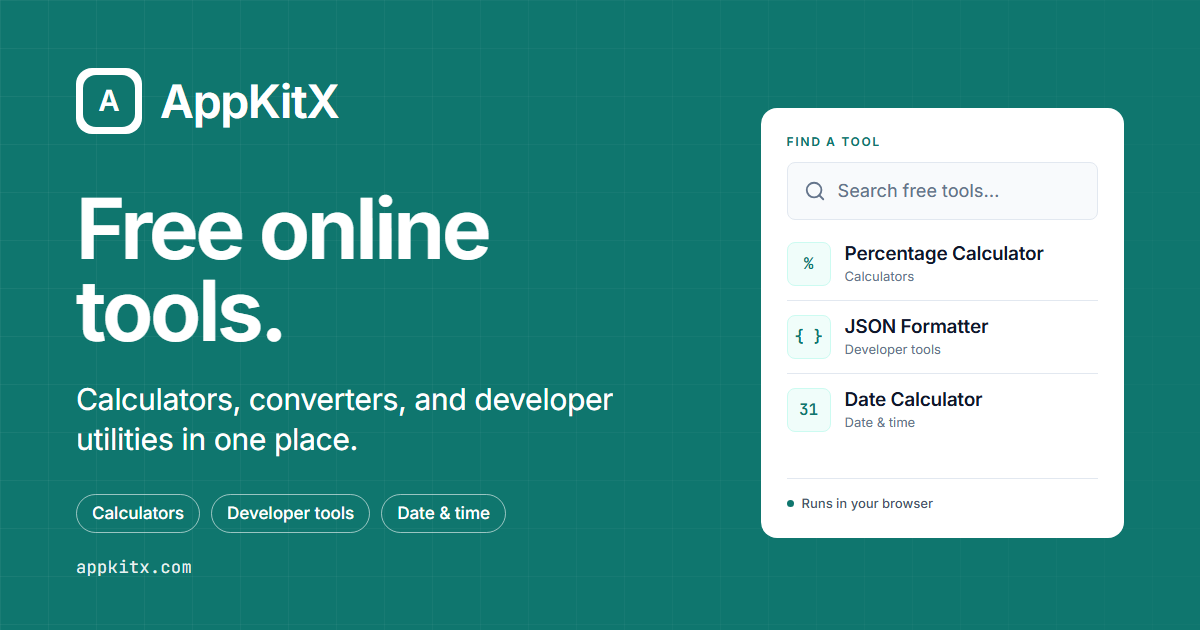
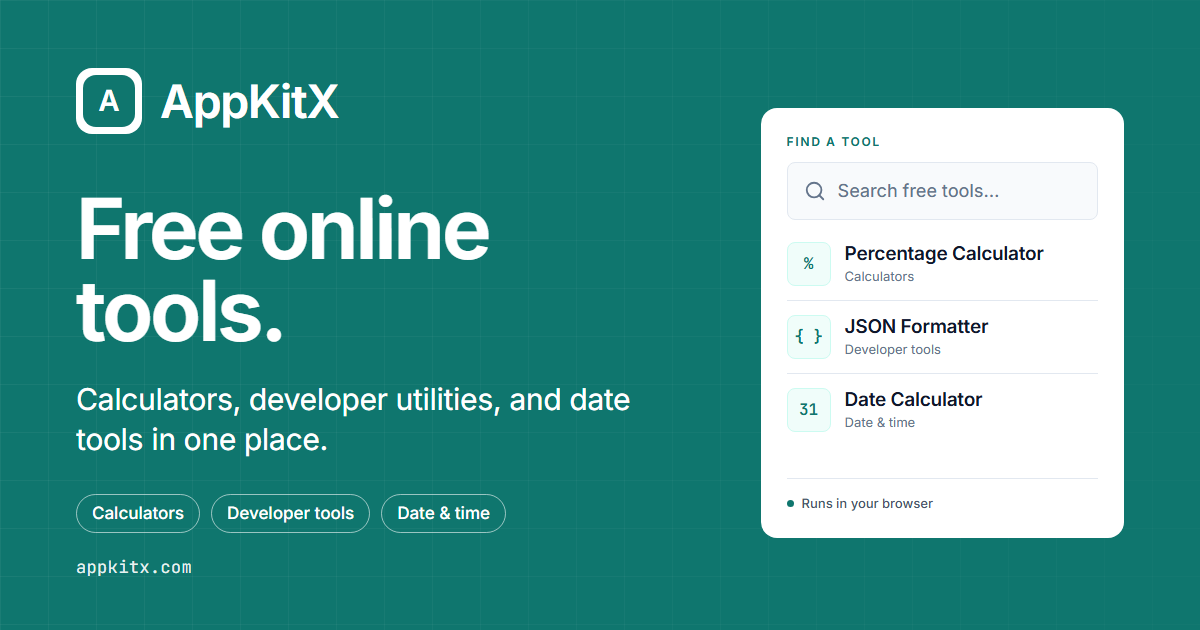
correct homepage and category copy claims

Changed region(s): [[0.0617, 0.6032, 0.5242, 0.7238]]

diff --git a/src/i18n/dictionaries/es.ts b/src/i18n/dictionaries/es.ts
@@ -21,9 +21,9 @@ export const es: Dictionary = {
   layout: {
     defaultTitle: "AppKitX — Herramientas online gratuitas",
     defaultDescription:
-      "Calculadoras, conversores y utilidades para desarrolladores, gratis y en un solo lugar.",
+      "Calculadoras, utilidades para desarrolladores y herramientas de fecha y hora, gratis y en un solo lugar.",
     socialImageAlt:
-      "AppKitX — herramientas online gratuitas para cálculos, conversiones y desarrollo.",
+      "AppKitX — herramientas online gratuitas: calculadoras, utilidades para desarrolladores y herramientas de fecha y hora.",
     skipToContent: "Saltar al contenido",
   },
   nav: {
@@ -85,7 +85,7 @@ export const es: Dictionary = {
   home: {
     heroTitle: "Herramientas gratis para el día a día.",
     heroSubline:
-      "Calculadoras, conversores y utilidades para desarrolladores, todo en un solo lugar.",
+      "Calculadoras, utilidades para desarrolladores y herramientas de fecha y hora, todo en un solo lugar.",
     browseByCategory: "Explorar por categoría",
     exploreHeading: "Explora el conjunto de herramientas.",
     placeholderTools: {
@@ -108,8 +108,8 @@ export const es: Dictionary = {
           "Calculadoras gratis de porcentajes y descuentos: calcula el X % de un número, la variación porcentual o el precio final tras un descuento.",
         toolsHeading: "Calculadoras online gratis",
         intro: [
-          "Dos calculadoras cubren las cuentas de porcentajes del día a día: calcula el X % de un número, averigua qué porcentaje representa un valor de otro, mide aumentos y disminuciones porcentuales y comprueba cuánto ahorras con un descuento y el precio final.",
-          "Ambas funcionan por completo en tu navegador, muestran la fórmula de cada resultado y permiten copiarlo con un clic. Los importes se tratan tal como los escribes: la calculadora de descuentos es neutral respecto a la moneda y los resultados solo se redondean para mostrarlos.",
+          "Las calculadoras cubren las cuentas de porcentajes del día a día: calcula el X % de un número, averigua qué porcentaje representa un valor de otro, mide aumentos y disminuciones porcentuales y comprueba cuánto ahorras con un descuento y el precio final.",
+          "Funcionan por completo en tu navegador, muestran la fórmula de cada resultado y permiten copiarlo con un clic. Los importes se tratan tal como los escribes: la calculadora de descuentos es neutral respecto a la moneda y los resultados solo se redondean para mostrarlos.",
         ],
       },
     },
@@ -122,8 +122,8 @@ export const es: Dictionary = {
           "Herramientas de desarrollo gratis en tu navegador: codifica y descodifica Base64 y formatea, minimiza o valida JSON. Nada de lo que pegas se sube.",
         toolsHeading: "Herramientas de desarrollo gratis",
         intro: [
-          "Dos utilidades en el navegador para el trabajo diario de desarrollo: convierte texto a Base64 y viceversa, y formatea, minimiza o valida JSON.",
-          "Ambas se ejecutan por completo en tu navegador: nada de lo que pegas se sube a ningún sitio. Cada herramienta documenta su comportamiento y sus casos límite, y todos los resultados se pueden copiar con un clic.",
+          "Utilidades en el navegador para el trabajo diario de desarrollo: convierte texto a Base64 y viceversa, y formatea, minimiza o valida JSON.",
+          "Se ejecutan por completo en tu navegador: nada de lo que pegas se sube a ningún sitio. Cada herramienta documenta su comportamiento y sus casos límite, y todos los resultados se pueden copiar con un clic.",
         ],
       },
     },
@@ -135,8 +135,8 @@ export const es: Dictionary = {
           "Calculadoras de fechas y de edad gratis: cuenta los días entre dos fechas, suma o resta días, semanas, meses y años y calcula la edad en años, meses y días.",
         toolsHeading: "Herramientas de fecha y hora gratis",
         intro: [
-          "Dos herramientas en el navegador para cuentas con el calendario: cuenta los días entre dos fechas con un desglose en años, meses y días, o suma y resta días, semanas, meses y años con ajuste de fin de mes.",
-          "La calculadora de edad convierte una fecha de nacimiento en años, meses y días, además de los días vividos totales, contados a fecha del calendario local de tu dispositivo. Ambas trabajan con fechas de calendario simples: sin zonas horarias, sin subir nada y con todos los resultados copiables con un clic.",
+          "Herramientas en el navegador para cuentas con el calendario: cuenta los días entre dos fechas con un desglose en años, meses y días, o suma y resta días, semanas, meses y años con ajuste de fin de mes.",
+          "La calculadora de edad convierte una fecha de nacimiento en años, meses y días, además de los días vividos totales, contados a fecha del calendario local de tu dispositivo. Las herramientas trabajan con fechas de calendario simples: sin zonas horarias, sin subir nada y con todos los resultados copiables con un clic.",
         ],
       },
     },

diff --git a/src/i18n/dictionaries/en.ts b/src/i18n/dictionaries/en.ts
@@ -9,9 +9,9 @@ export const en: Dictionary = {
   layout: {
     defaultTitle: "AppKitX — Free Online Tools",
     defaultDescription:
-      "Free calculators, converters, and developer utilities, all in one place.",
+      "Free calculators, developer utilities, and date and time tools, all in one place.",
     socialImageAlt:
-      "AppKitX — free online tools for calculations, conversions, and development.",
+      "AppKitX — free online tools for calculators, developer utilities, and date and time tools.",
     skipToContent: "Skip to content",
   },
   nav: {
@@ -73,7 +73,7 @@ export const en: Dictionary = {
   home: {
     heroTitle: "Free tools for everyday work.",
     heroSubline:
-      "Calculators, converters, and developer utilities — all in one place.",
+      "Calculators, developer utilities, and date and time tools — all in one place.",
     browseByCategory: "Browse by category",
     exploreHeading: "Explore the toolkit.",
     placeholderTools: {
@@ -96,8 +96,8 @@ export const en: Dictionary = {
           "Free calculators for percentages and discounts: find a percentage of a number, work out percent change, or see the final price after a discount.",
         toolsHeading: "Free online calculators",
         intro: [
-          "Two calculators cover the everyday percentage math: find X% of a number, work out what percent one value is of another, measure a percentage increase or decrease, and see what a discount saves and its final price.",
-          "Both run entirely in your browser, show the formula behind each result, and let you copy it with one click. Amounts are treated exactly as you enter them — the discount calculator is currency-neutral, and results are rounded only for display.",
+          "The calculators cover the everyday percentage math: find X% of a number, work out what percent one value is of another, measure a percentage increase or decrease, and see what a discount saves and its final price.",
+          "They run entirely in your browser, show the formula behind each result, and let you copy it with one click. Amounts are treated exactly as you enter them — the discount calculator is currency-neutral, and results are rounded only for display.",
         ],
       },
     },
@@ -110,8 +110,8 @@ export const en: Dictionary = {
           "Free browser-based developer tools: encode and decode Base64, and format, minify, or validate JSON. Nothing you paste is uploaded.",
         toolsHeading: "Free developer tools",
         intro: [
-          "Two browser-based utilities for everyday developer work: convert text to Base64 and back, and format, minify, or validate JSON.",
-          "Both run entirely in your browser — nothing you paste is uploaded anywhere. Each tool documents its behavior and edge cases, and every result can be copied with one click.",
+          "Browser-based utilities for everyday developer work: convert text to Base64 and back, and format, minify, or validate JSON.",
+          "They run entirely in your browser — nothing you paste is uploaded anywhere. Each tool documents its behavior and edge cases, and every result can be copied with one click.",
         ],
       },
     },
@@ -123,8 +123,8 @@ export const en: Dictionary = {
           "Free date and age calculators: count days between two dates, add or subtract days, weeks, months, and years, and work out your age in years, months, and days.",
         toolsHeading: "Free date & time tools",
         intro: [
-          "Two browser-based tools for calendar math: count the days between two dates with a years, months, and days breakdown, or add and subtract days, weeks, months, and years with month-end clamping.",
-          "The age calculator turns a date of birth into years, months, and days plus total days lived, counted as of your device's local calendar date. Both tools work with plain calendar dates — no timezones, nothing uploaded, and every result can be copied with one click.",
+          "Browser-based tools for calendar math: count the days between two dates with a years, months, and days breakdown, or add and subtract days, weeks, months, and years with month-end clamping.",
+          "The age calculator turns a date of birth into years, months, and days plus total days lived, counted as of your device's local calendar date. The tools work with plain calendar dates — no timezones, nothing uploaded, and every result can be copied with one click.",
         ],
       },
     },

diff --git a/tests/homepage-copy.test.ts b/tests/homepage-copy.test.ts
@@ -1,0 +1,70 @@
+import { describe, expect, it } from "vitest";
+import { dictionaries } from "../src/i18n/config";
+import { toolsInCategory } from "../src/lib/categories";
+
+/*
+ * Homepage copy contract: the hero, default metadata description, and social
+ * image alt text describe only tool families that are actually registered.
+ * The converter category is a placeholder for planned work, not a shipped
+ * tool family, so none of these strings may advertise converters.
+ */
+
+const CONVERTER_CLAIM = /\b(?:converters?|conversores?)\b/i;
+
+const FAMILY_TERMS: Record<
+  string,
+  { calculator: RegExp; developer: RegExp; date: RegExp }
+> = {
+  en: {
+    calculator: /calculators?/i,
+    developer: /developer/i,
+    date: /date and time/i,
+  },
+  es: {
+    calculator: /calculadoras?/i,
+    developer: /desarrollador/i,
+    date: /fecha y hora/i,
+  },
+};
+
+describe("homepage copy", () => {
+  it("does not claim that converter tools are available", () => {
+    expect(toolsInCategory("Converters")).toEqual([]);
+
+    for (const [code, dictionary] of Object.entries(dictionaries)) {
+      const copy = [
+        dictionary.home.heroSubline,
+        dictionary.layout.defaultDescription,
+        dictionary.layout.socialImageAlt,
+      ].join(" ");
+
+      expect(copy, `${code} homepage copy`).not.toMatch(CONVERTER_CLAIM);
+    }
+  });
+
+  it("describes every implemented tool family in both locales", () => {
+    for (const [code, dictionary] of Object.entries(dictionaries)) {
+      const terms = FAMILY_TERMS[code];
+      expect(terms, `copy contract for ${code}`).toBeDefined();
+      if (terms === undefined) continue;
+
+      const copy = [
+        dictionary.home.heroSubline,
+        dictionary.layout.defaultDescription,
+        dictionary.layout.socialImageAlt,
+      ].join(" ");
+
+      expect(copy, `${code} calculator coverage`).toMatch(terms.calculator);
+      expect(copy, `${code} developer coverage`).toMatch(terms.developer);
+      expect(copy, `${code} date and time coverage`).toMatch(terms.date);
+    }
+  });
+
+  it("keeps the homepage description and hero copy non-empty", () => {
+    for (const dictionary of Object.values(dictionaries)) {
+      expect(dictionary.home.heroSubline.trim()).not.toBe("");
+      expect(dictionary.layout.defaultDescription.trim()).not.toBe("");
+      expect(dictionary.layout.socialImageAlt.trim()).not.toBe("");
+    }
+  });
+});

diff --git a/e2e/homepage.spec.ts b/e2e/homepage.spec.ts
@@ -36,6 +36,41 @@ test("homepage renders the chrome, hero, and token styles", async ({
   await page.screenshot({ path: "test-results/homepage.png", fullPage: true });
 });
 
+test("homepage copy describes shipped tool families without converter claims", async ({
+  page,
+}) => {
+  const cases = [
+    {
+      path: "/",
+      families: [/calculators?/i, /developer/i, /date and time/i],
+      converterClaim: /converters?/i,
+    },
+    {
+      path: "/es/",
+      families: [/calculadoras?/i, /desarrollador/i, /fecha y hora/i],
+      converterClaim: /conversores?/i,
+    },
+  ];
+
+  for (const item of cases) {
+    await page.goto(item.path);
+
+    const heroSubline = await page.locator("main h1 + p").innerText();
+    const metaDescription = await page
+      .locator('meta[name="description"]')
+      .getAttribute("content");
+    const copy = `${heroSubline} ${metaDescription ?? ""}`;
+
+    expect(heroSubline.trim()).not.toBe("");
+    for (const family of item.families) {
+      expect(copy, `${item.path} family coverage`).toMatch(family);
+    }
+    expect(copy, `${item.path} converter claim`).not.toMatch(
+      item.converterClaim,
+    );
+  }
+});
+
 test("planned tools are non-interactive coming-soon cards", async ({
   page,
 }) => {

diff --git a/e2e/category.spec.ts b/e2e/category.spec.ts
@@ -286,6 +286,30 @@ test("an unpublished category path renders the noindex 404 page", async ({
   );
 });
 
+test("category intros avoid hardcoded tool counts", async ({ page }) => {
+  for (const path of [
+    "/calculators/",
+    "/developer-tools/",
+    "/date-time/",
+    "/es/calculators/",
+    "/es/developer-tools/",
+    "/es/date-time/",
+  ]) {
+    await page.goto(path);
+
+    const intro = page.locator("main section").first().locator("p");
+    const firstParagraph = (await intro.first().innerText()).trim();
+    const fullIntro = (await intro.allInnerTexts()).join(" ");
+
+    expect(firstParagraph, `${path} intro start`).not.toMatch(
+      /^(?:\d+|two|three|four|dos|tres|cuatro)\b/i,
+    );
+    expect(fullIntro, `${path} fixed-count pronouns`).not.toMatch(
+      /\b(?:both|ambas)\b/i,
+    );
+  }
+});
+
 test("the homepage chip and footer link the published categories", async ({
   page,
 }) => {

diff --git a/tests/categories.test.ts b/tests/categories.test.ts
@@ -148,6 +148,26 @@ describe("category page copy", () => {
       }
     }
   });
+
+  it("does not hardcode the number of tools in category page intros", () => {
+    for (const [code, dictionary] of Object.entries(dictionaries)) {
+      for (const category of publishedCategories()) {
+        const page = dictionary.categories[category].page;
+        if (page === undefined) continue;
+
+        const firstParagraph = page.intro[0] ?? "";
+        const fullIntro = page.intro.join(" ");
+
+        expect(firstParagraph, `${code} ${category} intro start`).not.toMatch(
+          /^\s*(?:\d+|two|three|four|dos|tres|cuatro)\b/i,
+        );
+        expect(
+          fullIntro,
+          `${code} ${category} fixed-count pronouns`,
+        ).not.toMatch(/\b(?:both|ambas)\b/i);
+      }
+    }
+  });
 });
 
 /*
